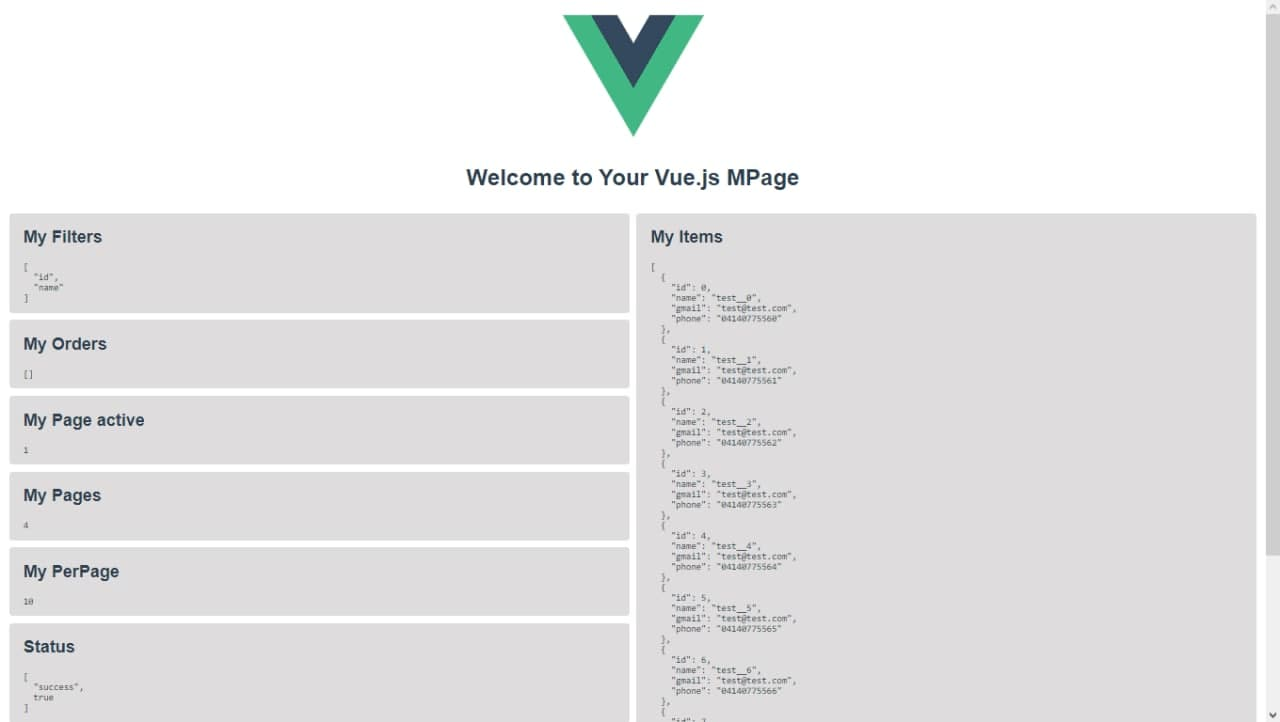
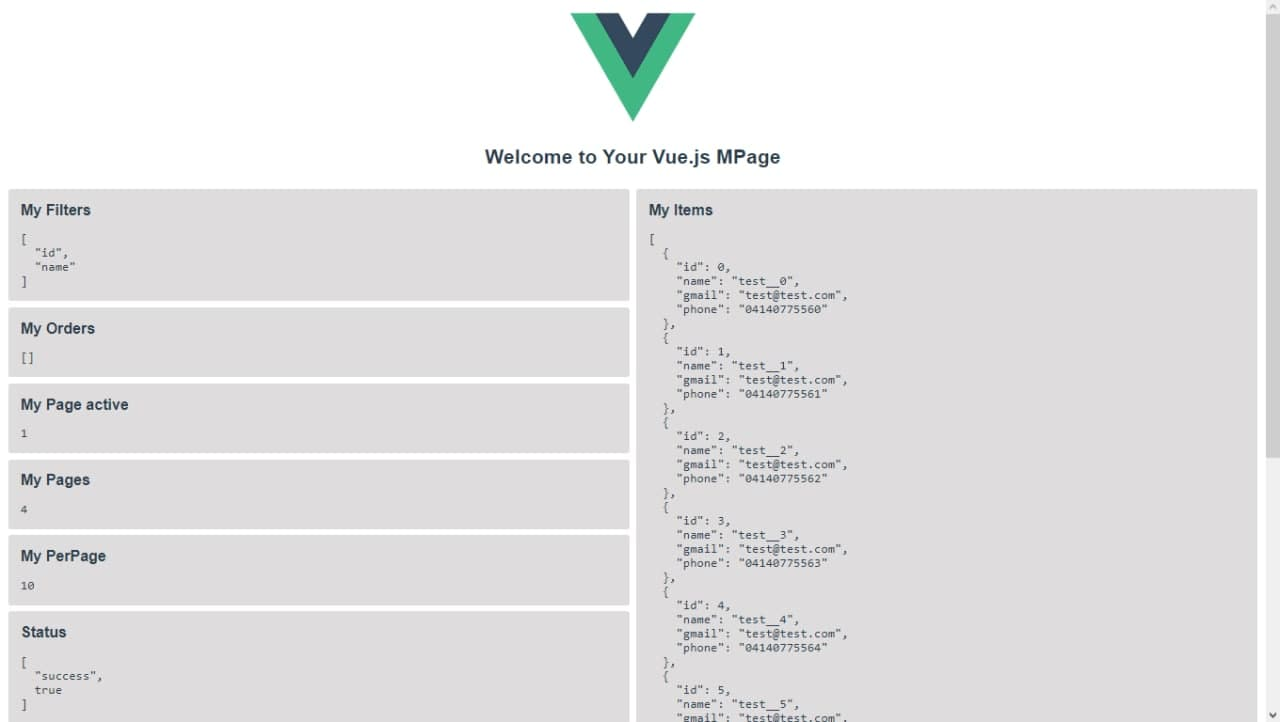
MPV alredy

diff --git a/src/components/preCode.vue b/src/components/preCode.vue
@@ -43,6 +43,9 @@ export default {
 </script>
 
 <style lang="scss">
+pre{
+  font-size: 15px;
+}
 .mp-data{
   display: flex;
   flex-direction: row;

diff --git a/README.md b/README.md
@@ -9,3 +9,152 @@
 The following library is created to facilitate the data sample that we obtain from any api that we create.
 
 What we are trying to achieve with this template is that the use of vue is much easier than it already is normally that by just matching a variable to an array of objects, these objects are saved in the VUE state and that you can automatically access these data very easily and quickly...
+
+
+## Install
+
+NPM:
+```bash
+npm install --save @darens/mpage
+```
+
+## How to use
+
+First of all we must import the MPage classes in our component as follows:
+
+```js
+import { MPage } from '@darens/mpage';
+```
+
+Once the class is imported we proceed to create some things necessary for its use
+
+### Mutation "mp_save_store"
+
+It will be vitally important to create a mutation in the store that we are going to use with the name of 'mp_save_store' so that our class can update our store for us.
+
+It is structured in the following way:
+
+```js
+mutations: {
+  mp_save_store (state, params) {
+    // Params
+    const key = params.key;
+    const data = params.data;
+    const comparison_key = params.comparison_key;
+    // Push items
+    data.map((itemToSave) => {
+      if(comparison_key){
+        // put data
+        var index_item = false;
+        state[key].map((itemOfState, index) => {
+          if(itemToSave[comparison_key] == itemOfState[comparison_key]){
+            index_item = index;
+          }
+        });
+
+        if(index_item != false){
+          state[key][index_item] = itemToSave;
+        }else{
+          state[key].push(itemToSave);
+        }
+
+      }else{
+        // post data
+        state[key].push(itemToSave);
+      }
+    });
+  }
+}
+```
+
+In this way our class will be able to use it to update and save data in the desired store.
+
+### State "Data to use"
+
+Of course we will need to create a data in our state of the same store that will be in charge of storing all our data in this case we will use the data called 'users'.
+
+```js
+var test = [];
+
+for (var i = 0; i < 40; i++) {
+  test.push({
+    id: i,
+    name: 'test__'+i,
+    gmail: 'test@test.com',
+    phone: '0414077556'+i,
+  });
+}
+
+state: {
+  users: [
+    ...test
+  ]
+},
+```
+
+Now we can start using our class that we import later in our component.
+
+The first thing we will need to do is create our 'data' 3 variables which will be:
+
+### page
+Here we will store the current page and at the time of changing this variable all our data will change depending on the page we want to access.
+
+### filter
+This will be our search value that will serve to filter our data depending on the value that this variable takes.
+
+### mp_main
+This is where we will instantiate the MPage class imported from our library to be used later to paginate, filter and update our data.
+
+
+```js
+data(){
+  return{
+    mp_main: new MPage(this.$store, null, 10, ['id', 'name']),
+    page: 1,
+    filter: null
+  }
+},
+```
+
+## Parameters of class 'MPage'
+
+| Params       | Type    | Required | Default     | Description |
+| ---          | ---     | ---      | ---         | ---         |
+
+| Store        | Object  | True     | this.$store | Object of 'VUE' necessary for the operation of the class, since with this you will be able to access the store. |
+| Name Store   | String  | False    | null        | If in your project you are working with multiple stores you will need to specify the name to which you are going to access. |
+| PerPage      | Number  | False    | 10          | This number symbolizes the amount of elements that will be displayed per page. |
+| Filters      | Array   | False    | []          | Filters to be used for specified searches. |
+<!-- | Orders       | Array   | False    | []          | Types of possible orders. | -->
+
+
+## Computed
+
+Finally we will only need to create our computed data which will be in charge of paging, filtering and updating our data.
+
+```js
+computed:{
+  users:{
+    get(){ return this.mp_main.getItems('users', this.page, this.filter); },
+    set(value){
+      this.mp_main.save(value, 'users');
+      return this.mp_main.getItems('users', this.page, this.filter);
+    }
+  }
+},
+```
+
+Here we find two functions, one that is responsible for paging and filtering our data, which is 'getItems', just like we have the one that is responsible for updating our store 'save'.
+
+## getItems
+
+| Params       | Type     | Required | Default     | Description |
+| ---          | ---      | ---      | ---         | ---         |
+
+| Key Store    | String   | True     | ---         | Here the store key will be sent, which in this case would be 'users' as we defined previously in the store status. |
+| Page Active  | Number   | True     | 1           | This is where we will make use of the data variable that we created previously called 'page', so that when it changes its value automatically our 'get' method is executed and changes the page. |
+| Filter       | Any      | False    | null        | This is where we will make use of the data variable that we created previously called 'filter', so that when it changes its value automatically our 'get' method is executed and makes a specific search of our data. |
+
+## Creator
+
+ - Created by Andres Rodrigues (@darens), 29/12/2020.
